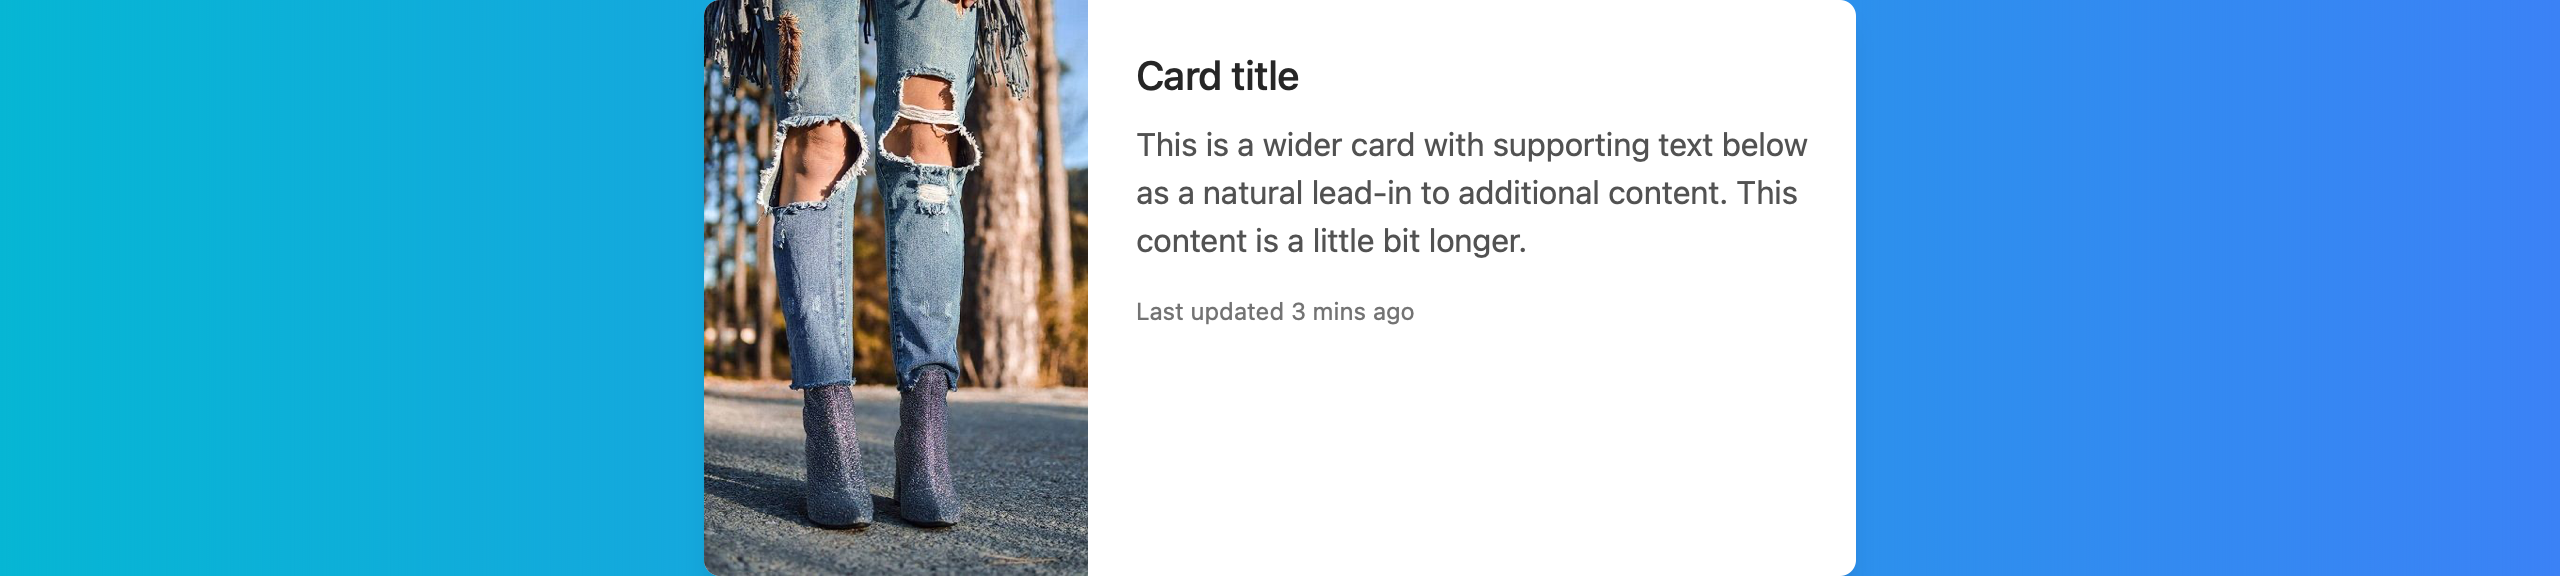
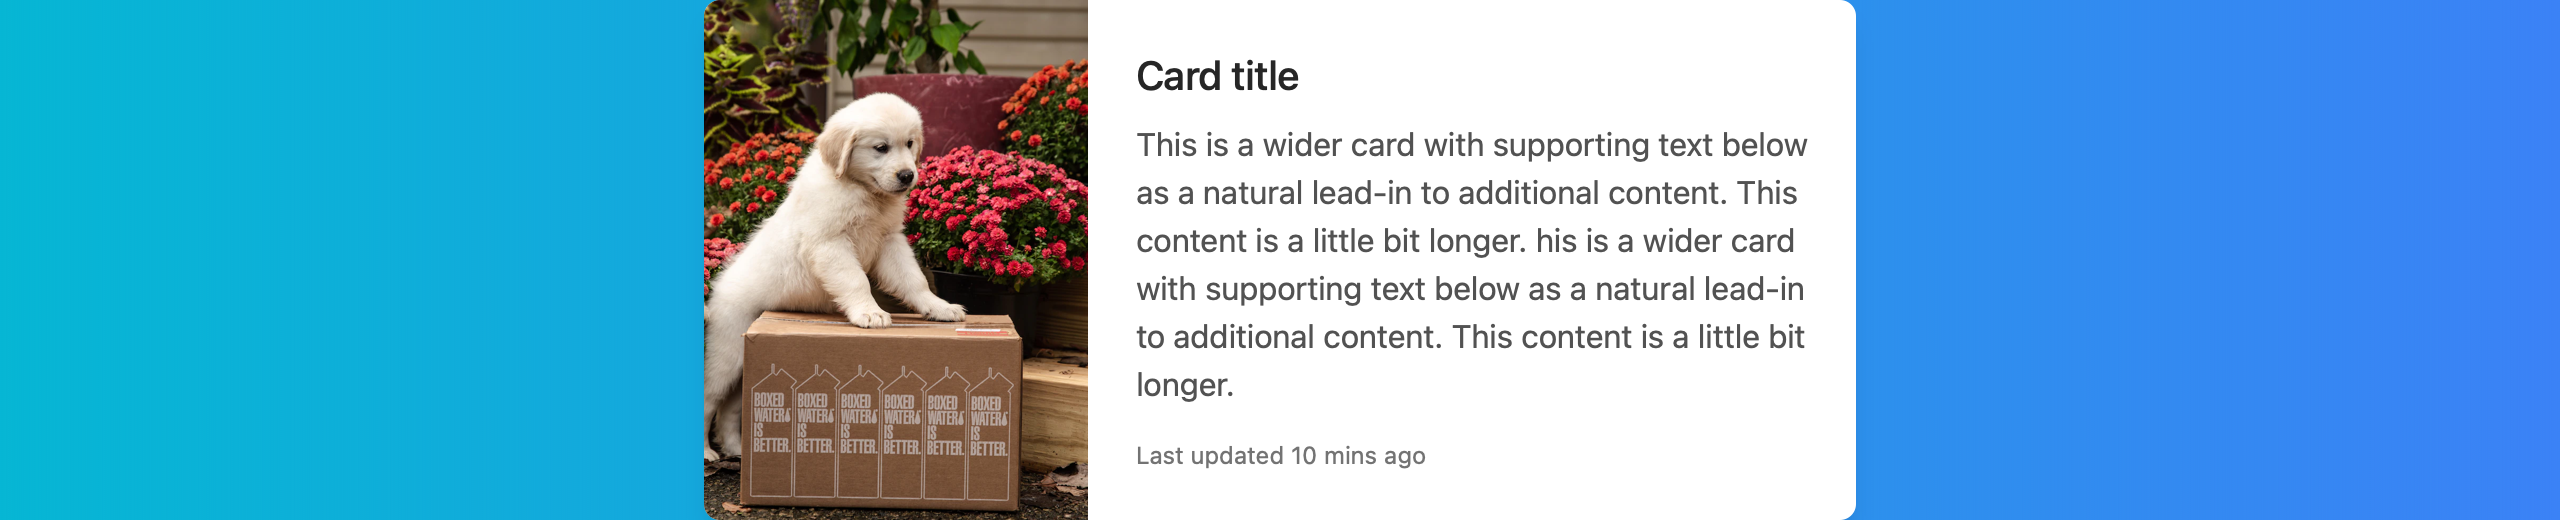
fix: few things

Changed region(s): [[0.25, 0.0, 0.7188, 1.0]]

diff --git a/src/components/ImageCard/HorinzontalImageCard.tsx b/src/components/ImageCard/HorinzontalImageCard.tsx
@@ -1,5 +1,5 @@
 import { FC } from "react";
-import image from "@assets/images/vertical.jpg";
+import image from "@assets/images/photo-1679678691014-eba529defb2c.webp";
 
 const HorizontalImageCard: FC = () => {
   return (
@@ -15,9 +15,10 @@ const HorizontalImageCard: FC = () => {
           </h5>
           <p className="mb-4 text-base text-neutral-600 dark:text-neutral-200">
             This is a wider card with supporting text below as a natural lead-in to additional
-            content. This content is a little bit longer.
+            content. This content is a little bit longer. his is a wider card with supporting text
+            below as a natural lead-in to additional content. This content is a little bit longer.
           </p>
-          <p className="text-xs text-neutral-500 dark:text-neutral-300">Last updated 3 mins ago</p>
+          <p className="text-xs text-neutral-500 dark:text-neutral-300">Last updated 10 mins ago</p>
         </div>
       </div>
     </div>

diff --git a/src/components/ImageCard/ImageCard.tsx b/src/components/ImageCard/ImageCard.tsx
@@ -13,8 +13,7 @@ const ImageCard: FC = () => {
             Card title
           </h5>
           <p className="mb-4 text-base text-neutral-600 dark:text-neutral-200">
-            Lorem ipsum dolor sit amet, consectetur adipiscing elit, sed do eiusmod tempor
-            incididunt ut labore et dolore magna aliqua
+            Lorem ipsum dolor sit amet, consectetur adipiscing elit
           </p>
           <button
             type="button"
@@ -22,7 +21,7 @@ const ImageCard: FC = () => {
             data-te-ripple-init
             data-te-ripple-color="light"
           >
-            Button
+            Link
           </button>
         </div>
       </div>

diff --git a/src/components/Calculator/components/Button.tsx b/src/components/Calculator/components/Button.tsx
@@ -40,7 +40,7 @@ const colorToCss = (color: ButtonProps["color"]) => {
   }
 
   return css`
-    background-color: blue;
+    background-color: #2e2e2e;
     color: #fff;
     &:hover,
     &:focus {
